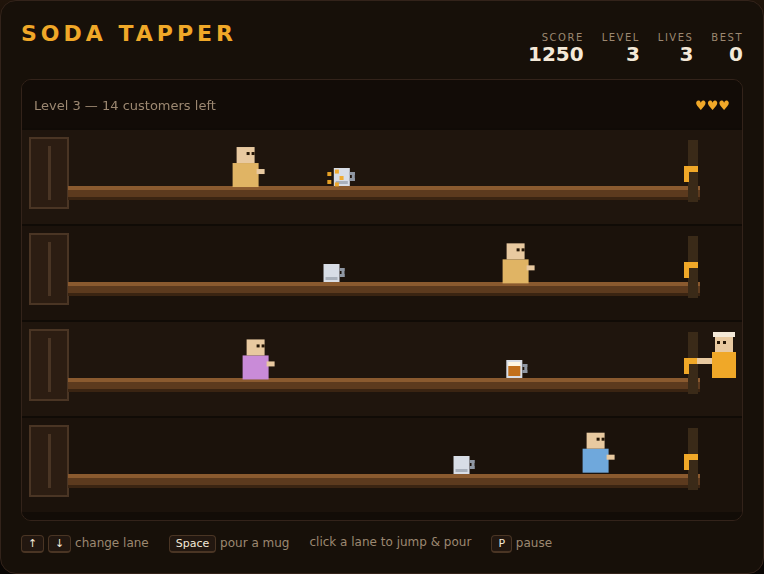
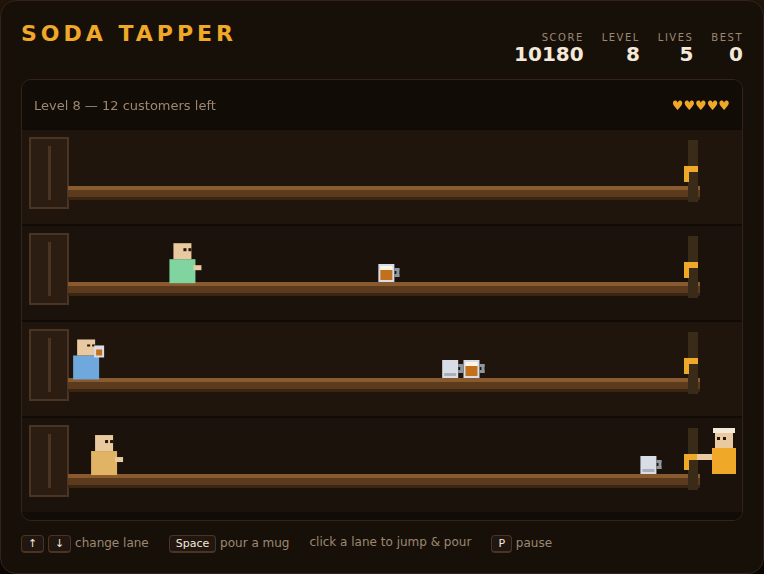
Fix Soda Tapper balance so levels can actually be cleared
An autoplaying bot found that the game reached a stable equilibrium: the
crowd's forward walk exactly absorbed the knockback the player could
apply, so a level could be held indefinitely but never cleared. The
player was stuck, unable to win or lose, with the score climbing
forever.

Three changes make forward progress guaranteed:

- A served customer stops to drink (DRINK_TIME), so every mug that lands
  is net backward progress rather than ground the customer walks off
  during the next mug's flight.
- At most MAX_ACTIVE customers are at the counter at once, bounding total
  forward pressure below the knockback rate a steady pour can apply.
- Knockback raised to 130, and the empty mug now comes back once per
  customer served rather than once per mug thrown, so the catching
  workload is bounded by the level's customer count.

Two tests guard the fix: "steady service always pushes a customer out of
the doors" pins the drink pause, and "a competent autoplaying bartender
clears levels" plays a full game and fails if the equilibrium returns.

Also polishes the rendering: figures now stand on the counter line
instead of floating, drinking customers raise their mug, and the canvas
carries a lives indicator.

Claude-Session: https://claude.ai/code/session_015iqJ1SeBsspTevry5bEf7n

diff --git a/SodaTapper/tests/soda-tapper.spec.js b/SodaTapper/tests/soda-tapper.spec.js
@@ -338,7 +338,23 @@ test.describe('Soda Tapper', () => {
             expect(result.score).toBeGreaterThan(0);
         });
 
-        test('serving a customer sends an empty mug back', async ({ page }) => {
+        test('a departing customer sends an empty mug back', async ({ page }) => {
+            const result = await page.evaluate(() => {
+                startGame();
+                customers.length = 0;
+                mugs.length = 0;
+                empties.length = 0;
+                spawnCustomer(2, BAR_LEFT + 5);
+                spawnMug(2, BAR_LEFT + 15);
+                for (let i = 0; i < 5; i++) step(0.016);
+                return { customers: customers.length, count: empties.length, lane: empties[0] && empties[0].lane };
+            });
+            expect(result.customers).toBe(0);
+            expect(result.count).toBe(1);
+            expect(result.lane).toBe(2);
+        });
+
+        test('a hit that does not finish a customer sends no empty back', async ({ page }) => {
             const result = await page.evaluate(() => {
                 startGame();
                 customers.length = 0;
@@ -347,10 +363,10 @@ test.describe('Soda Tapper', () => {
                 spawnCustomer(2, 400);
                 spawnMug(2, 410);
                 for (let i = 0; i < 5; i++) step(0.016);
-                return { count: empties.length, lane: empties[0] && empties[0].lane };
+                return { customers: customers.length, empties: empties.length };
             });
-            expect(result.count).toBe(1);
-            expect(result.lane).toBe(2);
+            expect(result.customers).toBe(1);
+            expect(result.empties).toBe(0);
         });
 
         test('a mug only serves a customer in its own lane', async ({ page }) => {
@@ -412,6 +428,64 @@ test.describe('Soda Tapper', () => {
             // the left-hand customer was untouched — only its own walking moved it
             expect(result[1]).toBeGreaterThanOrEqual(300);
             expect(result[1]).toBeLessThan(305);
+        });
+
+        test('a served customer stops to drink instead of advancing', async ({ page }) => {
+            const result = await page.evaluate(() => {
+                startGame();
+                customers.length = 0;
+                mugs.length = 0;
+                spawnCustomer(0, 400);
+                spawnMug(0, 410);
+                step(0.016);                       // the hit lands
+                const afterHit = customers[0].x;
+                for (let i = 0; i < 10; i++) step(0.016);
+                return { afterHit, afterWait: customers[0].x, drinking: customers[0].drink > 0 };
+            });
+            expect(result.drinking).toBe(true);
+            expect(result.afterWait).toBe(result.afterHit);
+        });
+
+        test('a customer walks again once the drink is finished', async ({ page }) => {
+            const moved = await page.evaluate(() => {
+                startGame();
+                customers.length = 0;
+                mugs.length = 0;
+                spawnCustomer(0, 400);
+                spawnMug(0, 410);
+                step(0.016);
+                const afterHit = customers[0].x;
+                for (let i = 0; i < 80; i++) step(0.016);   // well past DRINK_TIME
+                return customers[0].x > afterHit;
+            });
+            expect(moved).toBe(true);
+        });
+
+        // Regression guard: without the drink pause, a crowd walking forward can
+        // absorb the player's knockbacks exactly and stalemate — the level then
+        // becomes impossible to clear no matter how well the player plays.
+        test('steady service always pushes a customer out of the doors', async ({ page }) => {
+            const result = await page.evaluate(() => {
+                startGame();
+                level = 8;                     // fast walkers
+                spawnedThisLevel = customersForLevel();   // no new arrivals
+                customers.length = 0;
+                mugs.length = 0;
+                spawnCustomer(0, BAR_RIGHT - 30);
+                setLane(0);
+                let frames = 0;
+                let minLives = lives;
+                for (; frames < 2000 && customers.length; frames++) {
+                    pourMug();
+                    step(0.016);
+                    // keep the counter clear of hazards this test isn't about
+                    empties.length = 0;
+                    minLives = Math.min(minLives, lives);
+                }
+                return { customers: customers.length, minLives, frames };
+            });
+            expect(result.customers).toBe(0);      // served, not lost to the taps
+            expect(result.minLives).toBe(3);       // no life was lost getting there
         });
 
         test('a mug that reaches the doors untouched costs a life', async ({ page }) => {
@@ -754,27 +828,38 @@ test.describe('Soda Tapper', () => {
             expect(finalState).toBe('over');
         });
 
-        test('an autoplaying bartender can serve customers and score', async ({ page }) => {
+        // A competent player must be able to climb, not merely hold the line. An
+        // earlier tuning of this game reached a stable equilibrium where the
+        // crowd could be held back forever but never cleared, leaving the level
+        // both unwinnable and unloseable. This bot plays the way the game asks
+        // to be played — catch inbound empties, and pour only as many mugs as
+        // the lane's crowd can actually absorb — and must make real progress.
+        test('a competent autoplaying bartender clears levels', async ({ page }) => {
             const run = await page.evaluate(() => {
                 startGame();
                 let frames = 0;
-                for (let i = 0; i < 3000 && state === 'running'; i++) {
-                    // greedily chase whatever is most urgent: an inbound empty,
-                    // otherwise the customer closest to the taps whose lane does
-                    // not already have a mug on the way.
-                    const empty = empties.slice().sort((a, b) => b.x - a.x)[0];
-                    const customer = customers
-                        .filter((c) => !mugs.some((m) => m.lane === c.lane))
+                for (; frames < 20000 && state === 'running'; frames++) {
+                    const urgent = empties
+                        .filter((e) => (BAR_RIGHT - e.x) / EMPTY_SPEED < 0.55)
                         .sort((a, b) => b.x - a.x)[0];
-                    if (empty && empty.x > BAR_RIGHT - 140) setLane(empty.lane);
-                    else if (customer) { setLane(customer.lane); pourMug(); }
+                    if (urgent) {
+                        setLane(urgent.lane);
+                    } else {
+                        const target = customers.slice().sort((a, b) => b.x - a.x).find((c) => {
+                            const inFlight = mugs.filter((m) => m.lane === c.lane).length;
+                            const needed = customers
+                                .filter((k) => k.lane === c.lane)
+                                .reduce((n, k) => n + Math.ceil((k.x - BAR_LEFT) / KNOCKBACK), 0);
+                            return inFlight < needed;
+                        });
+                        if (target) { setLane(target.lane); pourMug(); }
+                    }
                     step(0.016);
-                    frames++;
                 }
                 return { frames, score, level };
             });
-            expect(run.frames).toBeGreaterThan(600);
-            expect(run.score).toBeGreaterThan(200);
+            expect(run.score).toBeGreaterThan(500);
+            expect(run.level).toBeGreaterThanOrEqual(4);
         });
 
         test('the canvas actually draws something', async ({ page }) => {

diff --git a/SodaTapper/game.js b/SodaTapper/game.js
@@ -30,7 +30,11 @@ const HIT_DIST = (CUSTOMER_W + MUG_W) / 2;  // mug/customer overlap threshold
 // --- Speeds (px per second) ---
 const MUG_SPEED = 380;             // full mugs sliding toward the doors
 const EMPTY_SPEED = 210;           // empties sliding back toward the taps
-const KNOCKBACK = 90;              // how far one mug pushes a customer back
+const KNOCKBACK = 130;             // how far one mug pushes a customer back
+// A served customer stops to drink. This is what guarantees the level can
+// always be cleared: without it a crowd walking forward at customerSpeed can
+// exactly absorb the player's knockbacks and stalemate forever.
+const DRINK_TIME = 0.55;
 
 // --- Pouring ---
 const POUR_COOLDOWN = 0.22;        // seconds between mugs
@@ -46,7 +50,13 @@ const POINTS_EMPTY = 25;           // an empty mug caught
 const POINTS_LEVEL = 100;          // × level, for clearing a level
 
 // --- Difficulty scaling (all pure functions of `level`) ---
-const CUSTOMER_BASE = 34, CUSTOMER_STEP = 7, CUSTOMER_MAX = 95;
+const CUSTOMER_BASE = 34, CUSTOMER_STEP = 7, CUSTOMER_MAX = 88;
+// How many customers may be at the counter at once. This is the balance
+// guarantee: total forward pressure is capped at MAX_ACTIVE × CUSTOMER_MAX,
+// which stays comfortably below the knockback a player pouring steadily can
+// apply. Without it the crowd grows until no pour rate can clear the level and
+// it stalls, unwinnable and unloseable, forever.
+const MAX_ACTIVE = 4;
 const SPAWN_BASE = 2.2, SPAWN_STEP = 0.18, SPAWN_MIN = 0.8;
 const SPAWN_LEAD = 1.0;            // grace period before the first customer
 const LEVEL_CUSTOMER_BASE = 4, LEVEL_CUSTOMER_STEP = 2;
@@ -88,7 +98,11 @@ function customersForLevel() { return LEVEL_CUSTOMER_BASE + LEVEL_CUSTOMER_STEP 
 // ---------------------------------------------------------------------------
 
 function spawnCustomer(lane, x) {
-    const customer = { lane, x, bob: Math.random() * Math.PI * 2, tint: Math.floor(Math.random() * 4) };
+    const customer = {
+        lane, x, drink: 0,
+        bob: Math.random() * Math.PI * 2,
+        tint: Math.floor(Math.random() * 4),
+    };
     customers.push(customer);
     return customer;
 }
@@ -137,24 +151,28 @@ function pourMug() {
 // The customer a mug is currently touching, or null. When a mug overlaps more
 // than one, it serves the rightmost — the one it would physically meet first.
 function mugTarget(mug) {
-    let best = null;
+    let nearest = null;
     for (const customer of customers) {
         if (customer.lane !== mug.lane) continue;
         if (Math.abs(mug.x - customer.x) >= HIT_DIST) continue;
-        if (!best || customer.x > best.x) best = customer;
+        if (!nearest || customer.x > nearest.x) nearest = customer;
     }
-    return best;
+    return nearest;
 }
 
 function serveCustomer(customer) {
     score += POINTS_HIT;
-    spawnEmpty(customer.lane, customer.x);
     addSplash(customer.lane, customer.x, '#f0a828');
+    customer.drink = DRINK_TIME;
     customer.x -= KNOCKBACK;
     if (customer.x <= BAR_LEFT) {
         customers.splice(customers.indexOf(customer), 1);
         score += POINTS_SERVED;
         servedThisLevel++;
+        // The empty comes back only when the customer actually leaves, so the
+        // number of empties to catch is bounded by the level's customer count
+        // rather than by how many mugs were thrown.
+        spawnEmpty(customer.lane, BAR_LEFT + 20);
     }
 }
 
@@ -205,7 +223,7 @@ function step(dt) {
     if (spawnedThisLevel < customersForLevel()) {
         spawnTimer -= dt;
         if (spawnTimer <= 0) {
-            const lane = freeSpawnLane();
+            const lane = customers.length < MAX_ACTIVE ? freeSpawnLane() : -1;
             if (lane >= 0) {
                 spawnCustomer(lane, BAR_LEFT);
                 spawnedThisLevel++;
@@ -225,7 +243,11 @@ function step(dt) {
     const walk = customerSpeed() * dt;
     for (let i = customers.length - 1; i >= 0; i--) {
         const customer = customers[i];
-        customer.x += walk;
+        if (customer.drink > 0) {
+            customer.drink -= dt;       // busy with their drink — no ground gained
+        } else {
+            customer.x += walk;
+        }
         customer.bob += dt * 9;
         if (customer.x >= BAR_RIGHT) {
             customers.splice(i, 1);
@@ -420,10 +442,19 @@ function drawCustomer(customer) {
     ctx.fillStyle = '#e8c9a0';
     ctx.fillRect(x - 9, base - 40, 18, 16);                        // head
     ctx.fillStyle = '#241505';
-    ctx.fillRect(x + 1, base - 35, 3, 3);                          // eyes, facing the taps
-    ctx.fillRect(x + 6, base - 35, 3, 3);
-    ctx.fillStyle = '#e8c9a0';
-    ctx.fillRect(x + CUSTOMER_W / 2 - 2, base - 18, 8, 5);         // outstretched hand
+    if (customer.drink > 0) {
+        ctx.fillRect(x + 1, base - 35, 3, 2);                      // eyes shut, happy
+        ctx.fillRect(x + 6, base - 35, 3, 2);
+        ctx.fillStyle = '#d8dde6';                                 // mug raised to drink
+        ctx.fillRect(x + 8, base - 34, 10, 12);
+        ctx.fillStyle = '#c2701c';
+        ctx.fillRect(x + 10, base - 30, 6, 6);
+    } else {
+        ctx.fillRect(x + 1, base - 35, 3, 3);                      // eyes, facing the taps
+        ctx.fillRect(x + 6, base - 35, 3, 3);
+        ctx.fillStyle = '#e8c9a0';
+        ctx.fillRect(x + CUSTOMER_W / 2 - 2, base - 18, 8, 5);     // outstretched hand
+    }
 }
 
 function drawMug(mug, full) {

diff --git a/SodaTapper/DESIGN.md b/SodaTapper/DESIGN.md
@@ -29,7 +29,10 @@ time. Lane *i*'s vertical centre is `laneY(i)`.
 ### Customers
 
 - Customers spawn at the doors (`x = BAR_LEFT`) on a repeating timer
-  (`spawnInterval()`) in a random lane, and walk right at `customerSpeed()`.
+  (`spawnInterval()`) in a random lane whose doorway is clear, and walk right at
+  `customerSpeed()`.
+- At most `MAX_ACTIVE` customers are at the counter at once; while the counter is
+  full, the queue outside simply waits.
 - A customer that reaches `BAR_RIGHT` grabs the bartender: **lose a life**, and
   that customer is removed.
 
@@ -39,17 +42,21 @@ time. Lane *i*'s vertical centre is `laneY(i)`.
   `BAR_RIGHT` and slides **left** at `MUG_SPEED`. Pouring is rate-limited by
   `POUR_COOLDOWN` seconds so the key can't be spammed into a wall of foam.
 - A mug that overlaps a customer serves them: the mug disappears, the customer is
-  knocked back `KNOCKBACK` pixels toward the doors, the player scores
-  `POINTS_HIT`, and an **empty mug** appears at the point of impact sliding
-  **right** at `EMPTY_SPEED`.
+  knocked back `KNOCKBACK` pixels toward the doors, stops for `DRINK_TIME`
+  seconds to drink, and the player scores `POINTS_HIT`.
 - When a mug overlaps more than one customer, the **rightmost** one (the one the
   mug meets first) is served.
 - A knockback that pushes a customer to `BAR_LEFT` or beyond means they leave
-  happy: the customer is removed and the player scores `POINTS_SERVED`.
+  happy: the customer is removed, the player scores `POINTS_SERVED`, and the
+  customer slides their **empty mug** back down the lane.
 - A mug that reaches `BAR_LEFT` without hitting anybody smashes: **lose a life**.
+  Pouring more mugs than the crowd in a lane can absorb is therefore the main way
+  a hurried player kills themselves.
 
 ### Empty mugs
 
+- One empty comes back per customer *served* — not per mug thrown — so the
+  catching workload is bounded by the level's customer count.
 - An empty that reaches `BAR_RIGHT` while the bartender is standing **in that
   lane** is caught for `POINTS_EMPTY`.
 - An empty that reaches `BAR_RIGHT` in **any other lane** smashes: **lose a
@@ -156,4 +163,25 @@ simpler reading, and recorded here:
    unwinnable.
 6. **Difficulty ceiling.** `customerSpeed()` and `spawnInterval()` scale linearly
    with `level` but are clamped (`CUSTOMER_MAX`, `SPAWN_MIN`) so very late levels
-   stay playable rather than becoming instantly fatal.
+   stay playable rather than becoming instantly fatal. A flawless player can
+   therefore keep going indefinitely, which is the normal arcade contract.
+
+## Balance
+
+Two rules exist purely to keep the game *finishable*, and both were added after
+an autoplaying bot found the failure they prevent. Without them the game reaches
+a stable equilibrium: the crowd's forward walk exactly absorbs the knockback a
+player can apply, so a level can be held indefinitely but never cleared — the
+player is stuck, unable to win or lose, scoring forever.
+
+1. **The drink pause** (`DRINK_TIME`). A served customer stops walking while they
+   drink, so every mug that lands is guaranteed net backward progress rather than
+   progress the customer can walk off during the next mug's flight.
+2. **The crowd cap** (`MAX_ACTIVE`). Total forward pressure is bounded at
+   `MAX_ACTIVE × CUSTOMER_MAX` px/s, comfortably under the knockback rate a
+   player pouring steadily can apply. Without the cap the crowd simply grows
+   until no pour rate can keep up.
+
+`tests/soda-tapper.spec.js` guards both: *"steady service always pushes a
+customer out of the doors"* pins rule 1, and *"a competent autoplaying bartender
+clears levels"* plays a full game and fails if the equilibrium ever comes back.

diff --git a/SodaTapper/README.md b/SodaTapper/README.md
@@ -23,11 +23,14 @@ Game**) to begin.
 | Click a lane | Jump to that lane and pour |
 | P | Pause / resume |
 
-- A mug knocks the customer it reaches back toward the doors and scores **10**
-  points. Knock a customer all the way to the doors and they leave satisfied for
-  another **50**.
-- Every mug that connects sends an **empty** sliding back at you. Catch it by
+- A mug knocks the customer it reaches back toward the doors, stops them for a
+  moment while they drink, and scores **10** points. Knock a customer all the way
+  to the doors and they leave satisfied for another **50**.
+- A departing customer slides their **empty** back down the lane. Catch it by
   standing in that lane when it arrives for **25** points.
+- Don't over-pour. A mug thrown at a customer who has already left has nothing to
+  hit, and it will smash at the doors — count the mugs a customer still needs
+  before you pour the next one.
 - You lose a life when a customer reaches the taps, when a mug slides down an
   empty lane and smashes at the doors, or when an empty comes back to a lane you
   aren't standing in. Losing a life sweeps every mug off the counter so you can
